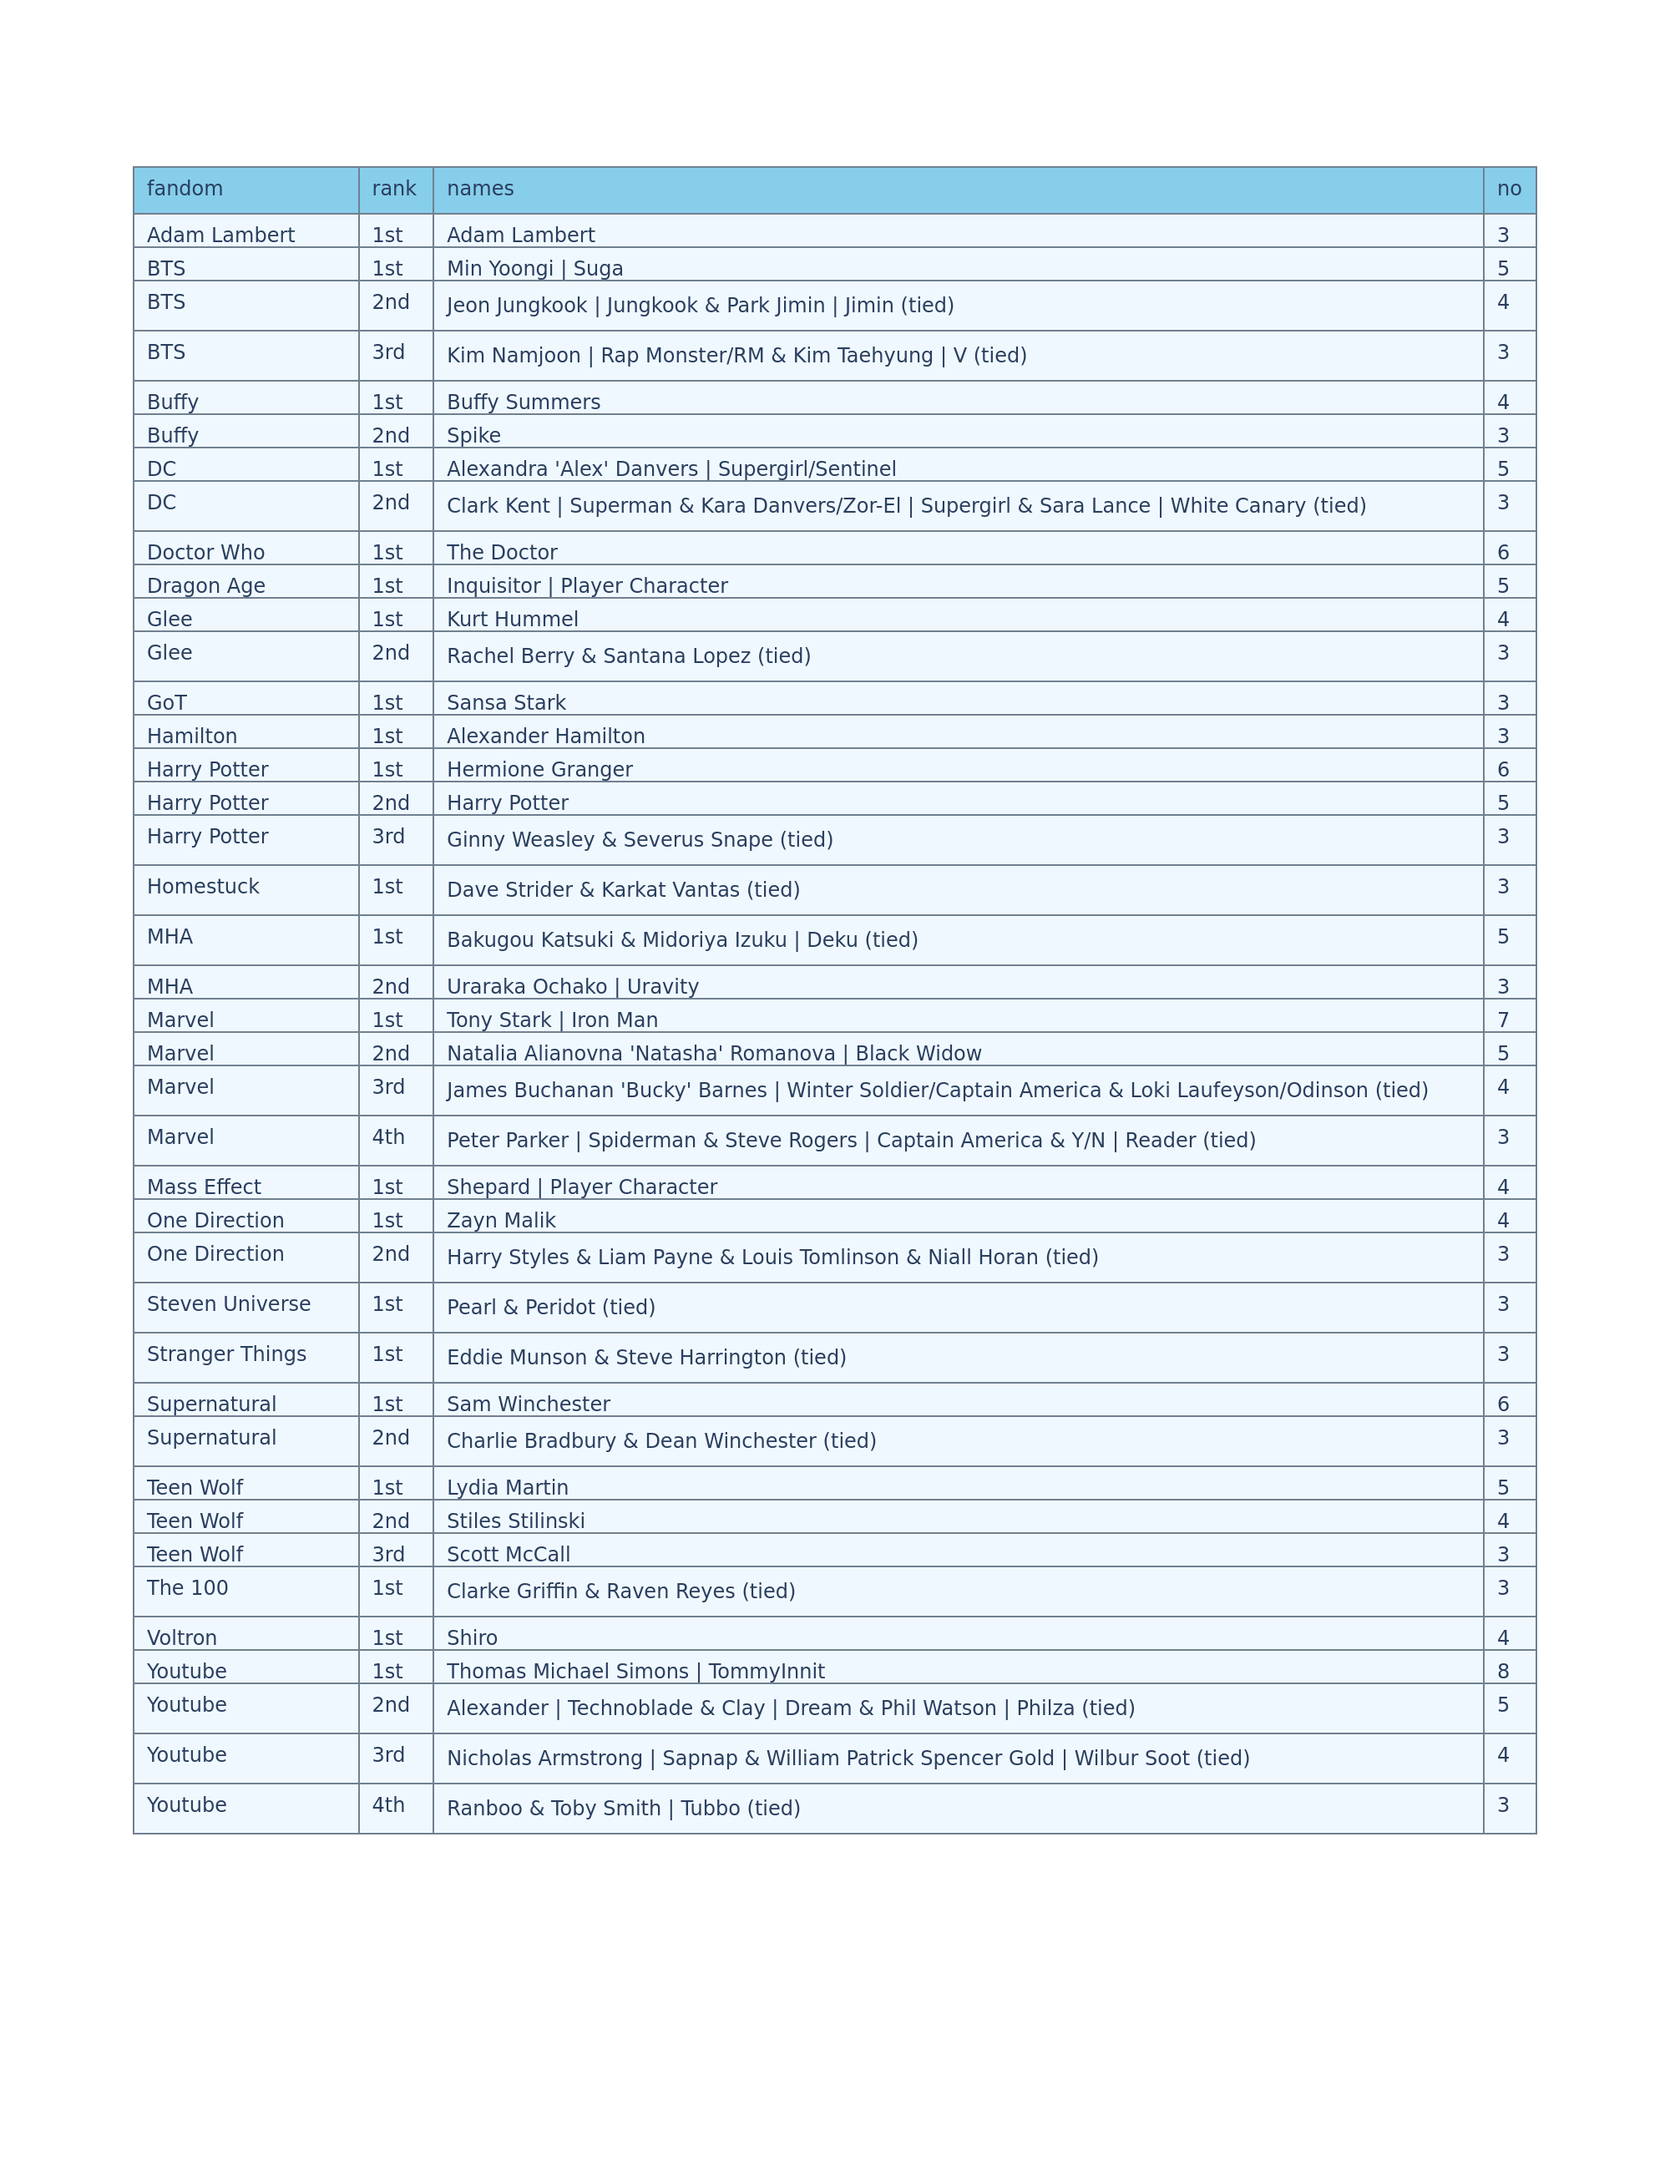
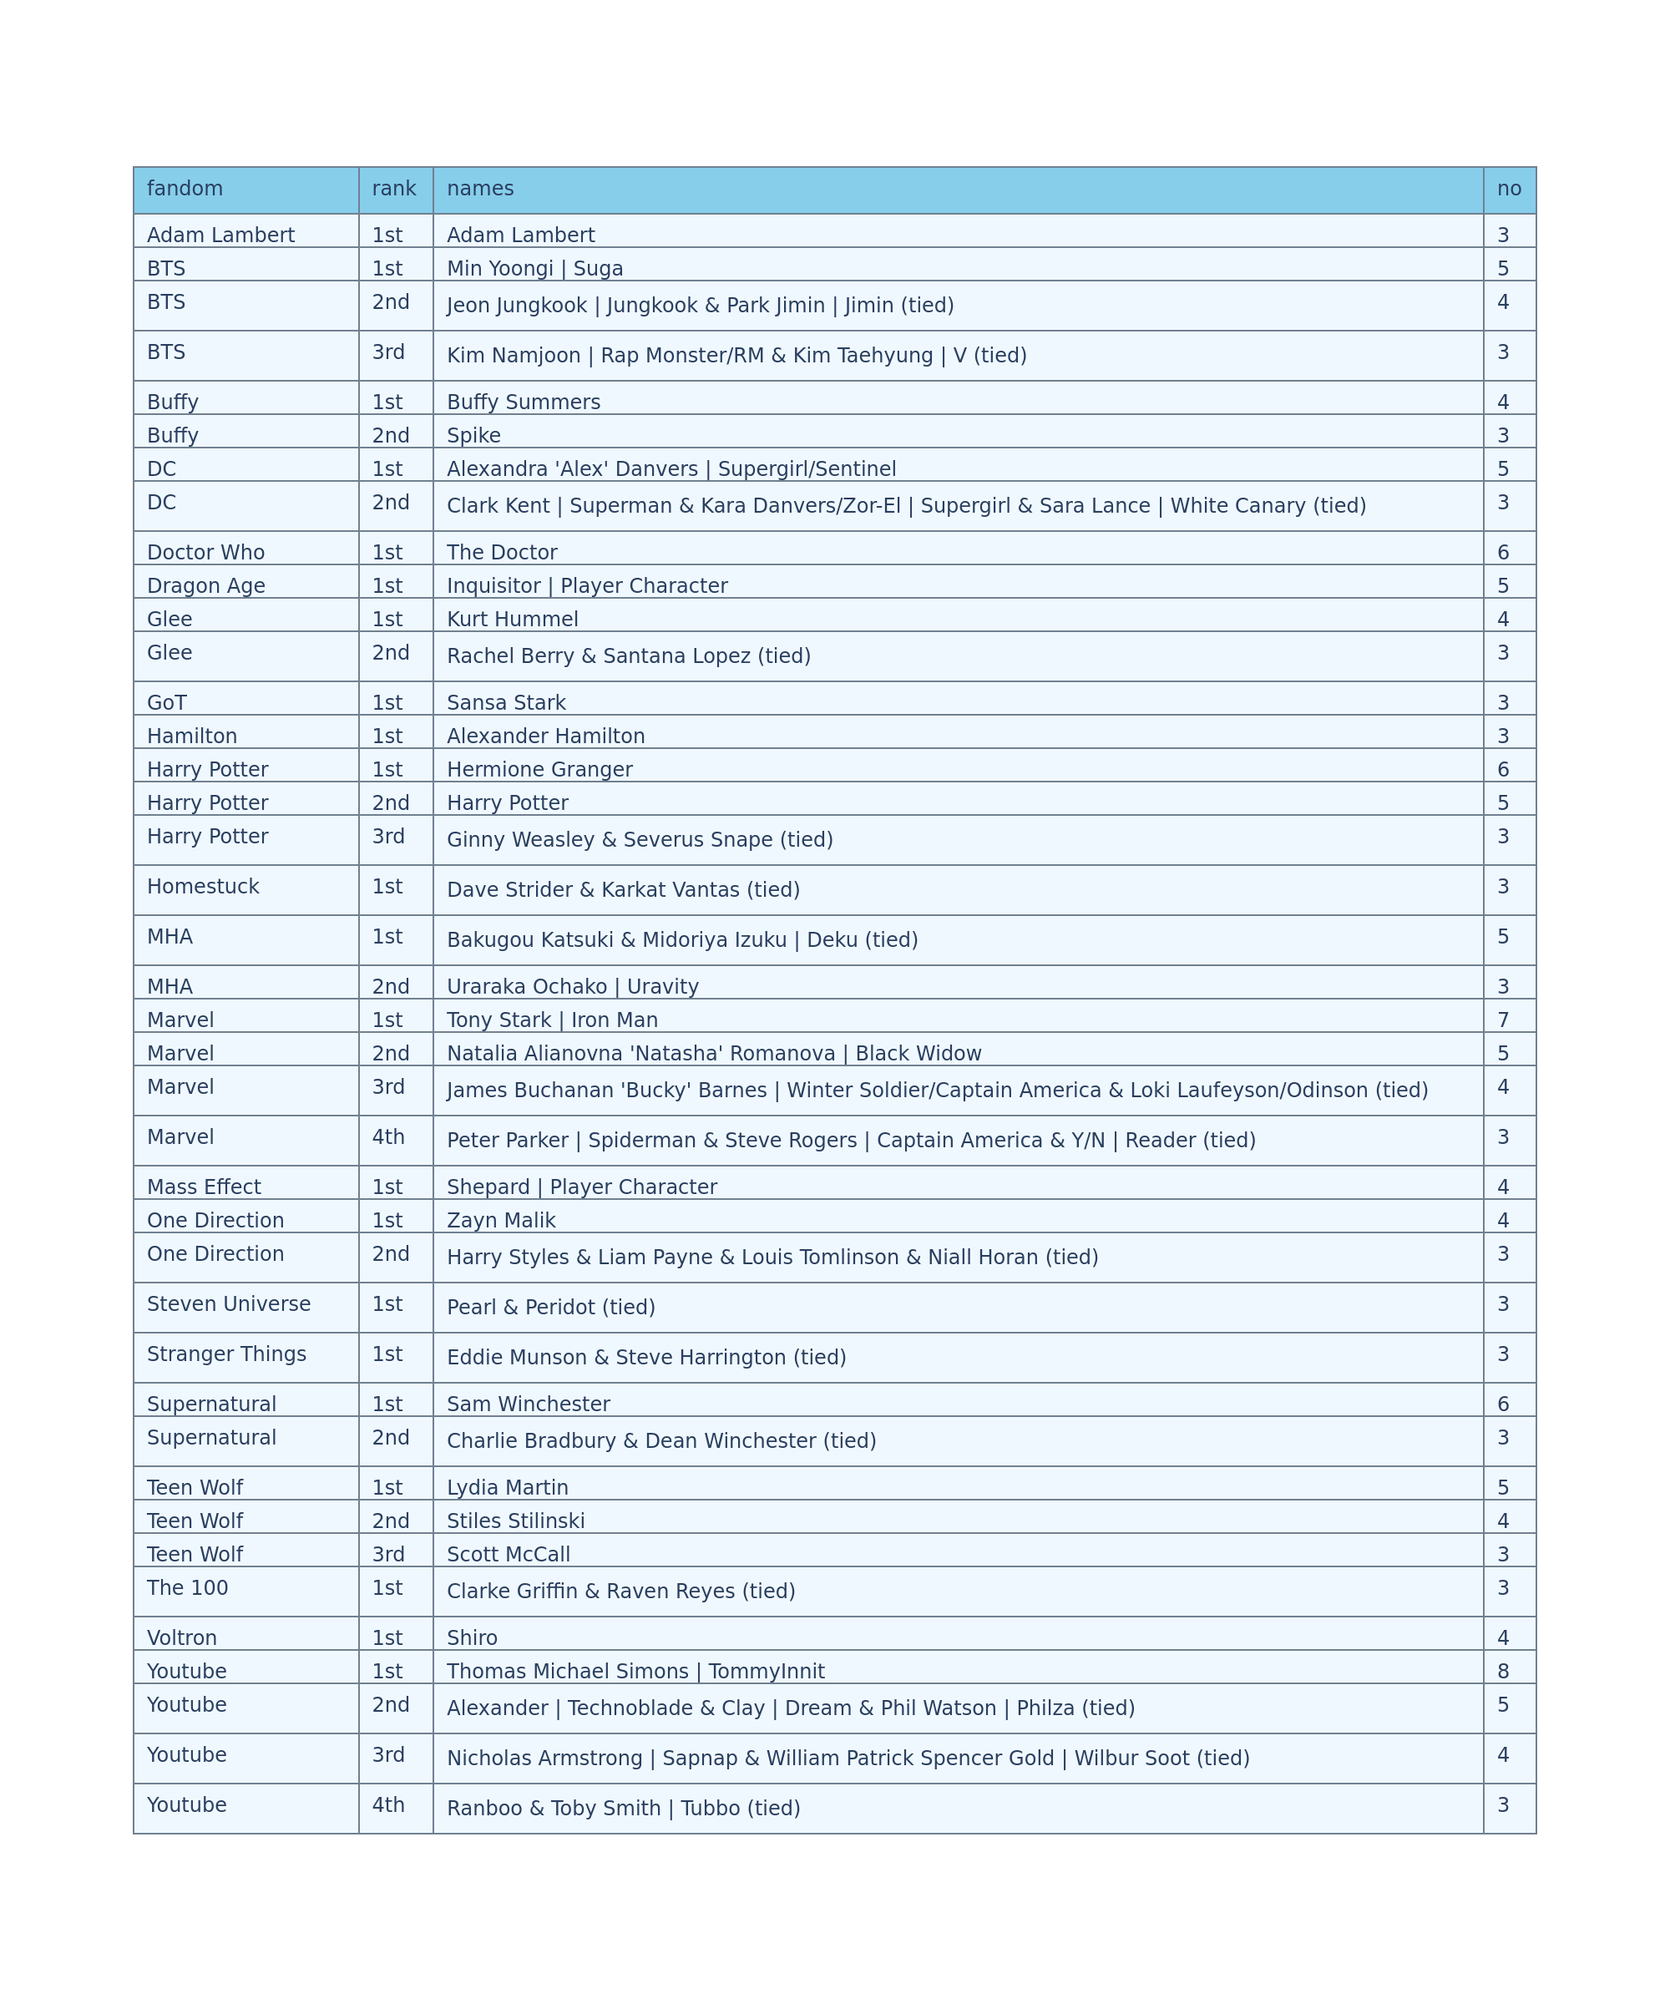
crop hottest chars chart

Changed region(s): [[0.062, 0.0625, 0.93, 0.9062]]

diff --git a/visualisation/ao3_all_data_2013_2023/vis_chars_and_ships.py b/visualisation/ao3_all_data_2013_2023/vis_chars_and_ships.py
@@ -257,7 +257,7 @@ if __name__ == "__main__":
     hottest_rank_fig.write_image(
         "visualisation/ao3_all_data_2013_2023/ao3_all_data_charts/all_ao3_hottest_characters_ranking_2013_2023.png", 
         width=1000, 
-        height=1300, 
+        height=1200, 
         scale=2
     )
 
